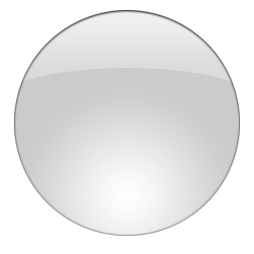
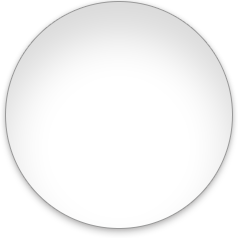
Update FKTextLoupeMagnifierView (caret selection) and FKTextRangeMagnifierView (range selection) UI to conform with iOS 7.

diff --git a/lib/FKTextField/FKTextRangeMagnifierView.m b/lib/FKTextField/FKTextRangeMagnifierView.m
@@ -27,12 +27,21 @@
 
 #import "FKTextRangeMagnifierView.h"
 
+#define kTextRangeMagnifierViewHalfWidth 70
+#define kTextRangeMagnifierViewWidth 139
+#define kTextRangeMagnifierViewHalfHeight 28
+#define kTextRangeMagnifierViewHeight 55
+
+#define kTextRangeMagnifierViewMaskWidth 129.0f
+#define kTextRangeMagnifierViewMaskHeight 32.0f
+#define kTextRangeMagnifierViewMaskOffsetX 5.0f
+#define kTextRangeMagnifierViewMaskOffsetY 3.0f
+
 @implementation FKTextRangeMagnifierView
 
 #if !__has_feature(objc_arc)
 - (void)dealloc
 {
-    [_magnifierRangedLow release];
     [_magnifierRangedMask release];
     [_magnifierRangedHigh release];
     
@@ -42,7 +51,7 @@
 
 - (id)init
 {
-    self = [super initWithFrame:CGRectMake(0.0f, 0.0f, 145.0f, 59.0f)];
+    self = [super initWithFrame:CGRectMake(0.0f, 0.0f, kTextRangeMagnifierViewWidth, kTextRangeMagnifierViewHeight)];
     if (self)
     {
         self.backgroundColor = [UIColor clearColor];
@@ -50,11 +59,9 @@
         NSBundle * bundle = [NSBundle bundleForClass:[self class]];
         
 #if !__has_feature(objc_arc)
-        _magnifierRangedLow = [[UIImage imageWithContentsOfFile:[bundle pathForResource:@"FieldKit.bundle/kb-magnifier-ranged-lo" ofType:@"png"]] retain];
         _magnifierRangedMask = [[UIImage imageWithContentsOfFile:[bundle pathForResource:@"FieldKit.bundle/kb-magnifier-ranged-mask" ofType:@"png"]] retain];
         _magnifierRangedHigh = [[UIImage imageWithContentsOfFile:[bundle pathForResource:@"FieldKit.bundle/kb-magnifier-ranged-hi" ofType:@"png"]] retain];
 #else
-        _magnifierRangedLow = [UIImage imageWithContentsOfFile:[bundle pathForResource:@"FieldKit.bundle/kb-magnifier-ranged-lo" ofType:@"png"]];
         _magnifierRangedMask = [UIImage imageWithContentsOfFile:[bundle pathForResource:@"FieldKit.bundle/kb-magnifier-ranged-mask" ofType:@"png"]];
         _magnifierRangedHigh = [UIImage imageWithContentsOfFile:[bundle pathForResource:@"FieldKit.bundle/kb-magnifier-ranged-hi" ofType:@"png"]];
 #endif
@@ -72,11 +79,12 @@
     
     CGContextRef context = UIGraphicsGetCurrentContext();
     
-    [_magnifierRangedLow drawInRect:rect];
+    //[_magnifierRangedMask drawInRect:rect];
+    CGRect maskRect = CGRectMake(rect.origin.x+kTextRangeMagnifierViewMaskOffsetX, rect.origin.y+kTextRangeMagnifierViewMaskOffsetY, kTextRangeMagnifierViewMaskWidth, kTextRangeMagnifierViewMaskHeight);
     
     CGContextSaveGState(context);
-    CGContextClipToMask(context, rect, _magnifierRangedMask.CGImage);
-    [contentImage drawInRect:rect];
+    CGContextClipToMask(context, maskRect, _magnifierRangedMask.CGImage);
+    [contentImage drawInRect:maskRect];
     CGContextRestoreGState(context);
     
     [_magnifierRangedHigh drawInRect:rect];
@@ -91,7 +99,7 @@
     // Create a graphics context with the target size
     // On iOS 4 and later, use UIGraphicsBeginImageContextWithOptions to take the scale into consideration
     // On iOS prior to 4, fall back to use UIGraphicsBeginImageContext
-    CGSize imageSize = CGSizeMake(145.0f, 59.0f);//[[UIScreen mainScreen] bounds].size;
+    CGSize imageSize = CGSizeMake(kTextRangeMagnifierViewMaskWidth, kTextRangeMagnifierViewMaskHeight);
     if (NULL != UIGraphicsBeginImageContextWithOptions)
         UIGraphicsBeginImageContextWithOptions(imageSize, NO, 0);
     else
@@ -101,7 +109,7 @@
     CGContextRef context = UIGraphicsGetCurrentContext();
     
     // Translate context to the loupe magnifier position
-    CGContextTranslateCTM(context, -_position.x+50.0f, -_position.y-10.0f);
+    CGContextTranslateCTM(context, -_position.x+kTextRangeMagnifierViewHalfWidth, -_position.y-kTextRangeMagnifierViewHeight);
     
     // Iterate over every window from back to front
     for (UIWindow *window in [[UIApplication sharedApplication] windows])
@@ -124,7 +132,7 @@
 - (void)setPosition:(CGPoint)position
 {
     _position = position;
-    self.frame = CGRectMake(position.x-73.0f, position.y-40.0f, 145.0f, 59.0f);
+    self.frame = CGRectMake(position.x-kTextRangeMagnifierViewHalfWidth, position.y, kTextRangeMagnifierViewWidth, kTextRangeMagnifierViewHeight);
     [self setNeedsDisplay];
 }
 

diff --git a/lib/FKTextField/FKTextLoupeMagnifierView.m b/lib/FKTextField/FKTextLoupeMagnifierView.m
@@ -27,12 +27,21 @@
 
 #import "FKTextLoupeMagnifierView.h"
 
+#define kTextLoupeMagnifierViewHalfWidth 60.0f
+#define kTextLoupeMagnifierViewWidth 119.0f
+#define kTextLoupeMagnifierViewHalfHeight 60.0f
+#define kTextLoupeMagnifierViewHeight 119.0f
+
+#define kTextLoupeMagnifierViewMaskWidth 114.0f
+#define kTextLoupeMagnifierViewMaskHeight 114.0f
+#define kTextLoupeMagnifierViewMaskOffsetX 2.5f
+#define kTextLoupeMagnifierViewMaskOffsetY 0.5f
+
 @implementation FKTextLoupeMagnifierView
 
 #if !__has_feature(objc_arc)
 - (void)dealloc
 {
-    [_loupeLow release];
     [_loupeMask release];
     [_loupeHigh release];
     
@@ -42,18 +51,16 @@
 
 - (id)init
 {
-    self = [super initWithFrame:CGRectMake(0.0f, 0.0f, 127.0f, 127.0f)];
+    self = [super initWithFrame:CGRectMake(0.0f, 0.0f, kTextLoupeMagnifierViewWidth, kTextLoupeMagnifierViewHeight)];
     if (self)
     {
         self.backgroundColor = [UIColor clearColor];
         
         NSBundle * bundle = [NSBundle bundleForClass:[self class]];
 #if !__has_feature(objc_arc)
-        _loupeLow = [[UIImage imageWithContentsOfFile:[bundle pathForResource:@"FieldKit.bundle/kb-loupe-lo" ofType:@"png"]] retain];
         _loupeMask = [[UIImage imageWithContentsOfFile:[bundle pathForResource:@"FieldKit.bundle/kb-loupe-mask" ofType:@"png"]] retain];
         _loupeHigh = [[UIImage imageWithContentsOfFile:[bundle pathForResource:@"FieldKit.bundle/kb-loupe-hi" ofType:@"png"]] retain];
 #else
-        _loupeLow = [UIImage imageWithContentsOfFile:[bundle pathForResource:@"FieldKit.bundle/kb-loupe-lo" ofType:@"png"]];
         _loupeMask = [UIImage imageWithContentsOfFile:[bundle pathForResource:@"FieldKit.bundle/kb-loupe-mask" ofType:@"png"]];
         _loupeHigh = [UIImage imageWithContentsOfFile:[bundle pathForResource:@"FieldKit.bundle/kb-loupe-hi" ofType:@"png"]];
 #endif
@@ -71,15 +78,19 @@
     
     CGContextRef context = UIGraphicsGetCurrentContext();
     
-    [_loupeLow drawInRect:rect];
+    //[_magnifierRangedMask drawInRect:rect];
+    CGRect maskRect = CGRectMake(rect.origin.x+kTextLoupeMagnifierViewMaskOffsetX, rect.origin.y+kTextLoupeMagnifierViewMaskOffsetY, kTextLoupeMagnifierViewMaskWidth, kTextLoupeMagnifierViewMaskHeight);
     
     CGContextSaveGState(context);
-    CGContextClipToMask(context, rect, _loupeMask.CGImage);
-    [contentImage drawInRect:rect];
+    CGContextClipToMask(context, maskRect, _loupeMask.CGImage);
+    [contentImage drawInRect:maskRect];
     CGContextRestoreGState(context);
     
     [_loupeHigh drawInRect:rect];
     
+#if !__has_feature(objc_arc)
+    [contentImage release];
+#endif
 }
 
 - (UIImage *)contentImage
@@ -87,7 +98,7 @@
     // Create a graphics context with the target size
     // On iOS 4 and later, use UIGraphicsBeginImageContextWithOptions to take the scale into consideration
     // On iOS prior to 4, fall back to use UIGraphicsBeginImageContext
-    CGSize imageSize = CGSizeMake(100.0f, 100.0f);//[[UIScreen mainScreen] bounds].size;
+    CGSize imageSize = CGSizeMake(kTextLoupeMagnifierViewMaskWidth, kTextLoupeMagnifierViewMaskHeight);//[[UIScreen mainScreen] bounds].size;
     if (NULL != UIGraphicsBeginImageContextWithOptions)
         UIGraphicsBeginImageContextWithOptions(imageSize, NO, 0);
     else
@@ -97,7 +108,7 @@
     CGContextRef context = UIGraphicsGetCurrentContext();
     
     // Translate context to the loupe magnifier position
-    CGContextTranslateCTM(context, -_position.x+50.0f, -_position.y+30.0f);
+    CGContextTranslateCTM(context, -_position.x+kTextLoupeMagnifierViewHalfWidth, -_position.y);
     
     // Iterate over every window from back to front
     for (UIWindow *window in [[UIApplication sharedApplication] windows])
@@ -120,7 +131,7 @@
 - (void)setPosition:(CGPoint)position
 {
     _position = position;
-    self.frame = CGRectMake(position.x-63.0f, position.y-127.0f, 127.0f, 127.0f);
+    self.frame = CGRectMake(position.x-kTextLoupeMagnifierViewHalfWidth, position.y-kTextLoupeMagnifierViewHalfHeight, kTextLoupeMagnifierViewWidth, kTextLoupeMagnifierViewHeight);
     [self setNeedsDisplay];
 }
 

diff --git a/lib/FKTextField/FKTextLoupeMagnifierView.h b/lib/FKTextField/FKTextLoupeMagnifierView.h
@@ -35,8 +35,6 @@
  */
 @interface FKTextLoupeMagnifierView : UIView
 {
-    //UIImage * _contentImage;
-    UIImage * _loupeLow;
     UIImage * _loupeMask;
     UIImage * _loupeHigh;
     

diff --git a/lib/FKTextField/FKTextRangeMagnifierView.h b/lib/FKTextField/FKTextRangeMagnifierView.h
@@ -35,7 +35,6 @@
  */
 @interface FKTextRangeMagnifierView : UIView
 {
-    UIImage * _magnifierRangedLow;
     UIImage * _magnifierRangedMask;
     UIImage * _magnifierRangedHigh;
     
